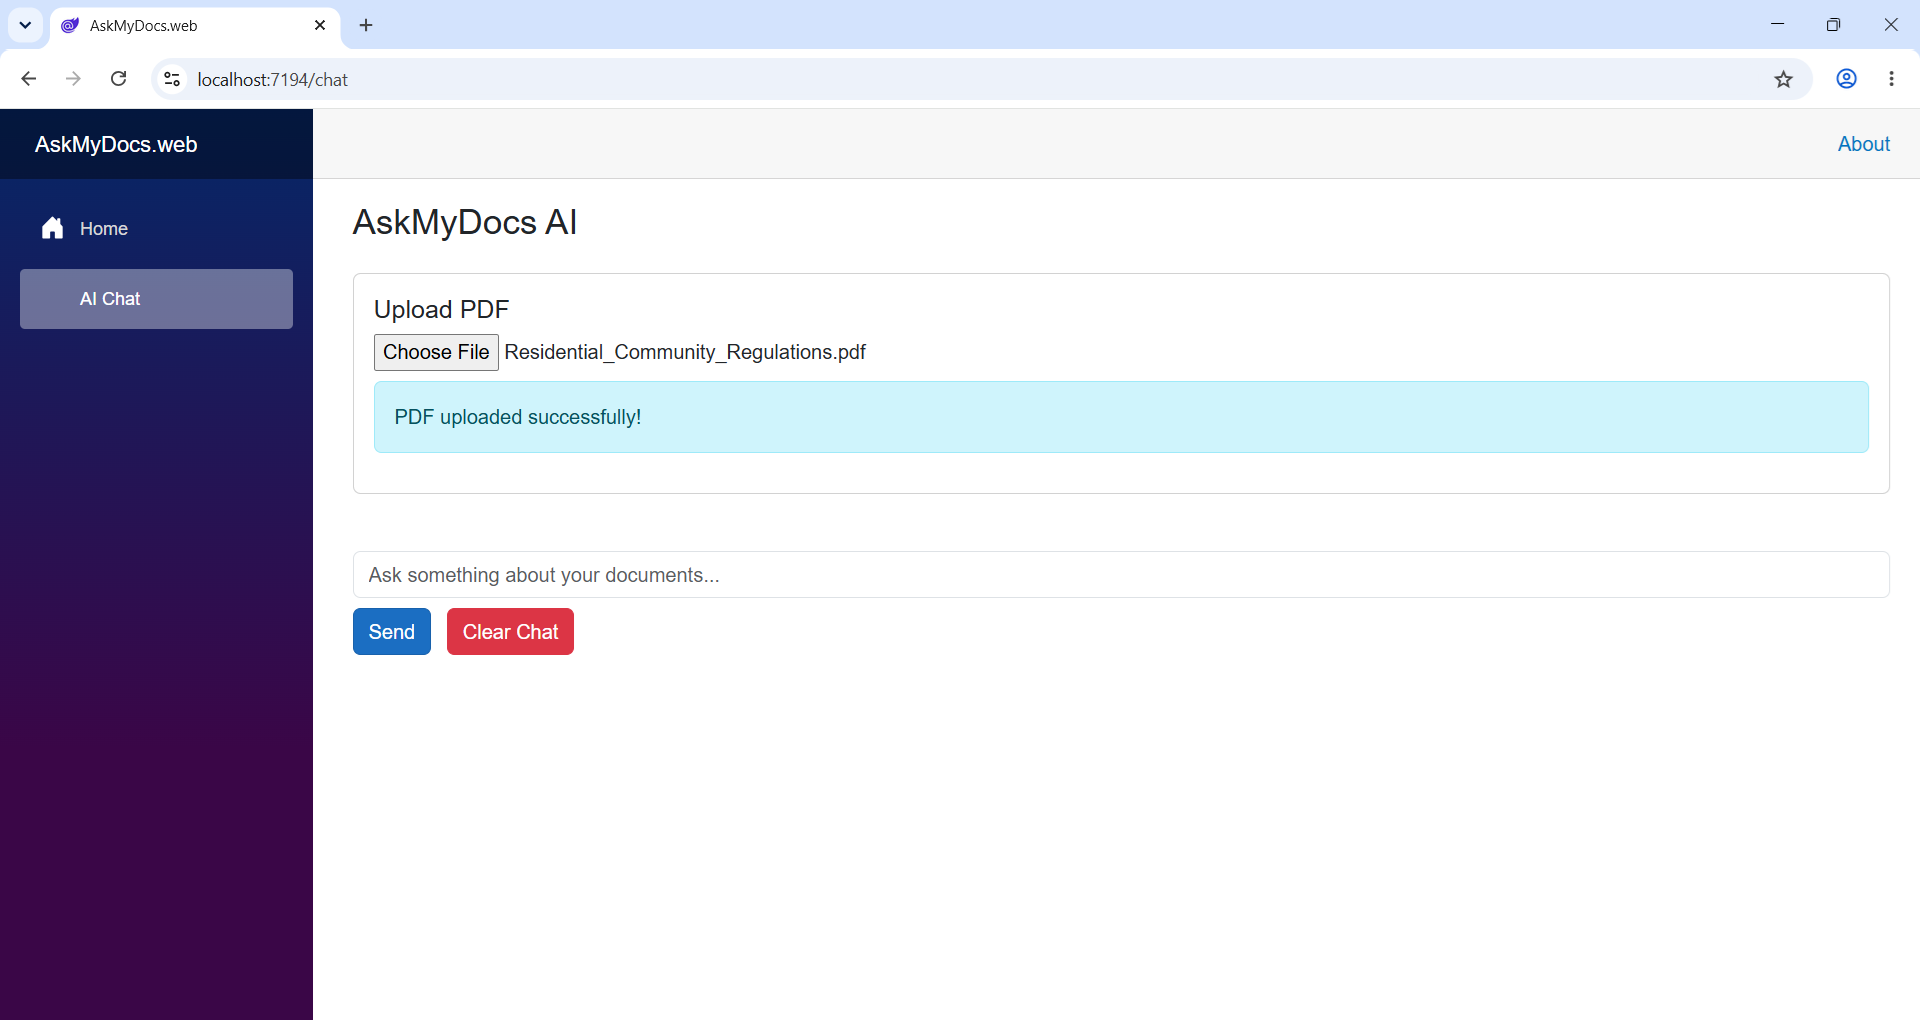
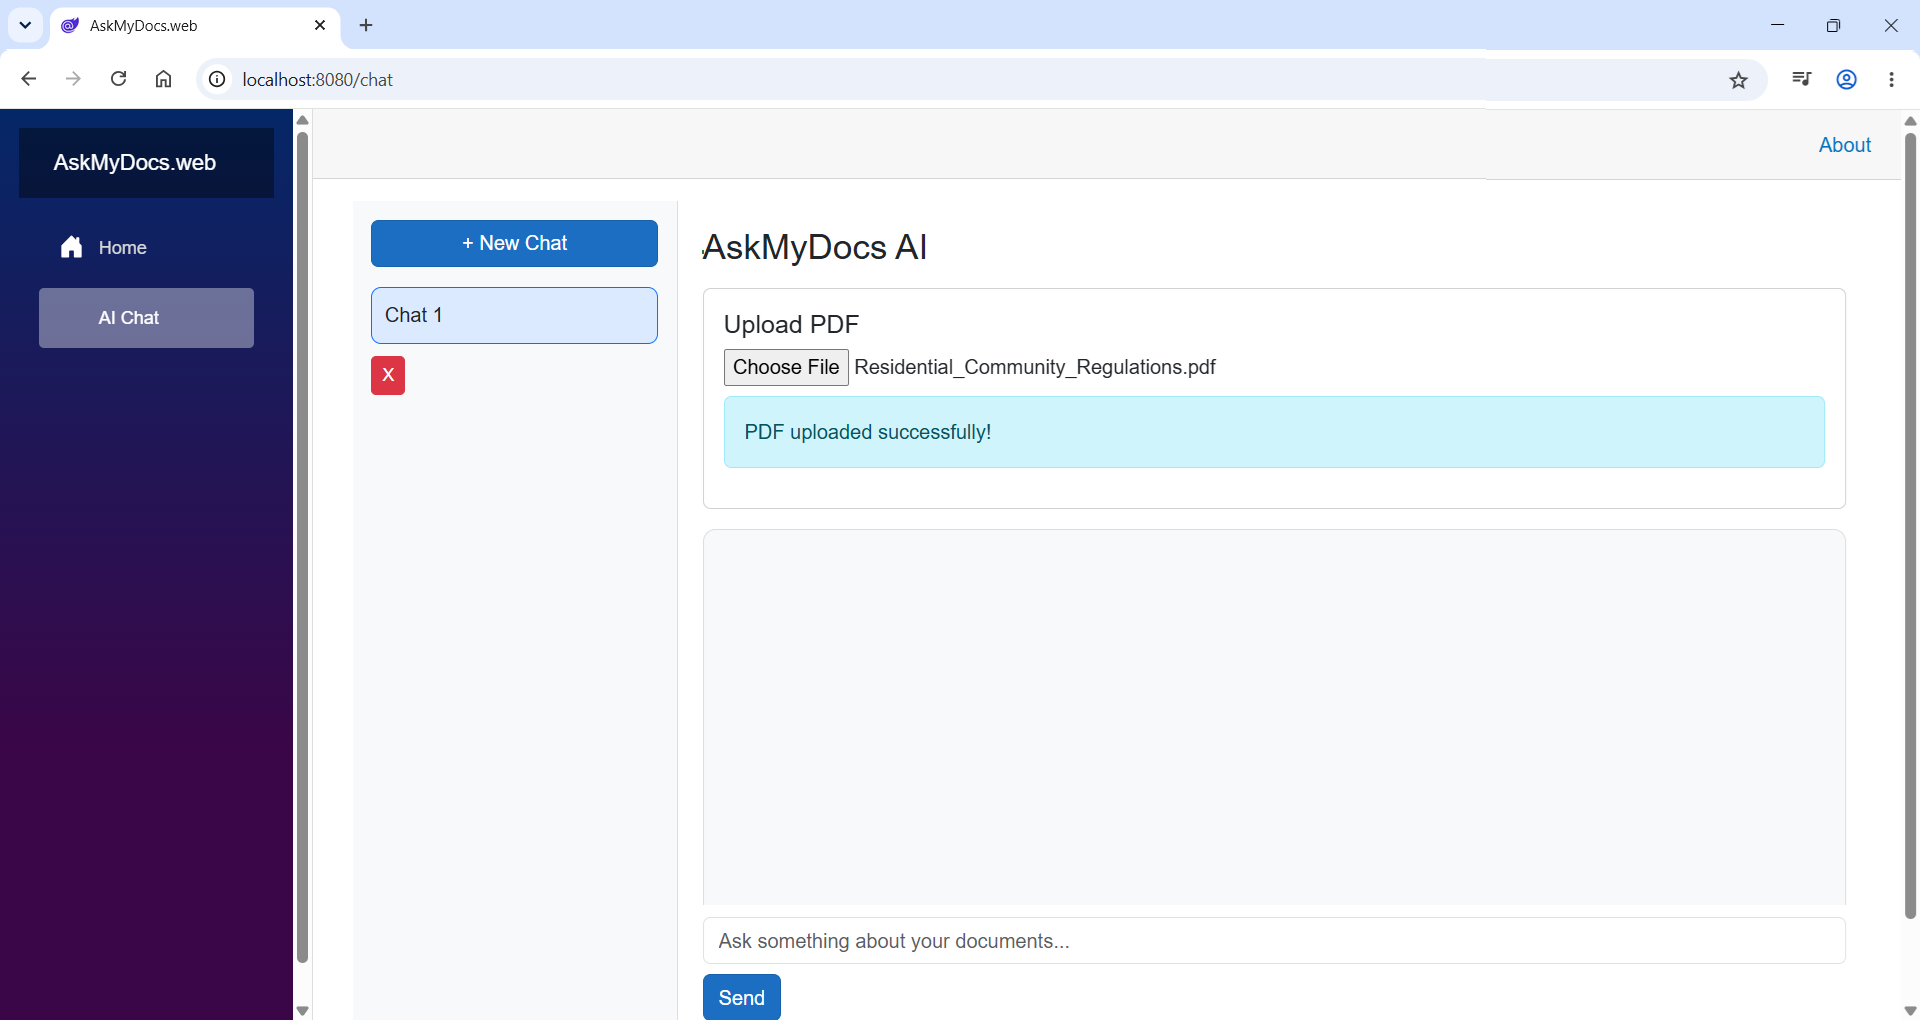
Dockerize AskMyDocs application

diff --git a/backend/app/api/chat.py b/backend/app/api/chat.py
@@ -8,14 +8,13 @@ from app.services.llm_service import stream_answer
 
 router = APIRouter()
 
+class Message(BaseModel):
+    role: str
+    content: str
 
 class ChatRequest(BaseModel):
     question: str
     history: list[Message] = []
-
-class Message(BaseModel):
-    role: str
-    content: str
 
 @router.post("/chat")
 async def chat(request: ChatRequest):

diff --git a/backend/app/api/title.py b/backend/app/api/title.py
@@ -1,6 +1,9 @@
 from fastapi import APIRouter
 from pydantic import BaseModel
-import ollama
+from ollama import Client
+from app.config import OLLAMA_HOST
+
+client = Client(host=OLLAMA_HOST)
 
 router = APIRouter()
 
@@ -26,7 +29,7 @@ Rules:
 - professional
 """
 
-    response = ollama.chat(
+    response = client.chat(
         model="llama3.2",
         messages=[
             {

diff --git a/backend/app/config.py b/backend/app/config.py
@@ -1,0 +1,6 @@
+import os
+
+OLLAMA_HOST = os.getenv(
+    "OLLAMA_HOST",
+    "http://localhost:11434"
+)

diff --git a/backend/app/services/llm_service.py b/backend/app/services/llm_service.py
@@ -1,5 +1,7 @@
-import ollama
+from ollama import Client
+from app.config import OLLAMA_HOST
 
+client = Client(host=OLLAMA_HOST)
 
 def stream_answer(
     question: str,
@@ -38,7 +40,7 @@ Context:
         "content": question
     })
 
-    stream = ollama.chat(
+    stream = client.chat(
         model="llama3.2",
         messages=messages,
         stream=True

diff --git a/frontend/web/Services/ApiService.cs b/frontend/web/Services/ApiService.cs
@@ -41,7 +41,7 @@ public class ApiService
 
         var request = new HttpRequestMessage(
             HttpMethod.Post,
-            "http://127.0.0.1:8000/chat");
+            "http://localhost:8000/chat");
 
         request.Content = content;
 
@@ -77,7 +77,7 @@ public class ApiService
     public async Task<string> AskQuestion(string question)
     {
         var response = await _httpClient.PostAsJsonAsync(
-            "http://127.0.0.1:8000/chat",
+            "http://localhost:8000/chat",
             new
             {
                 question = question
@@ -98,7 +98,7 @@ public class ApiService
     {
         var response =
             await _httpClient.PostAsJsonAsync(
-                "http://127.0.0.1:8000/generate-title",
+                "http://localhost:8000/generate-title",
                 new
                 {
                     question = question

diff --git a/frontend/web/Services/UploadService.cs b/frontend/web/Services/UploadService.cs
@@ -37,7 +37,7 @@ public class UploadService
 
         var response =
             await _http.PostAsync(
-                "http://127.0.0.1:8000/upload",
+                "http://localhost:8000/upload",
                 content);
 
         return response.IsSuccessStatusCode;

diff --git a/backend/app/main.py b/backend/app/main.py
@@ -14,6 +14,7 @@ app.add_middleware(
     CORSMiddleware,
     allow_origins=[
         "https://localhost:7194",
+        "http://localhost:8080"
     ],
     allow_credentials=True,
     allow_methods=["*"],